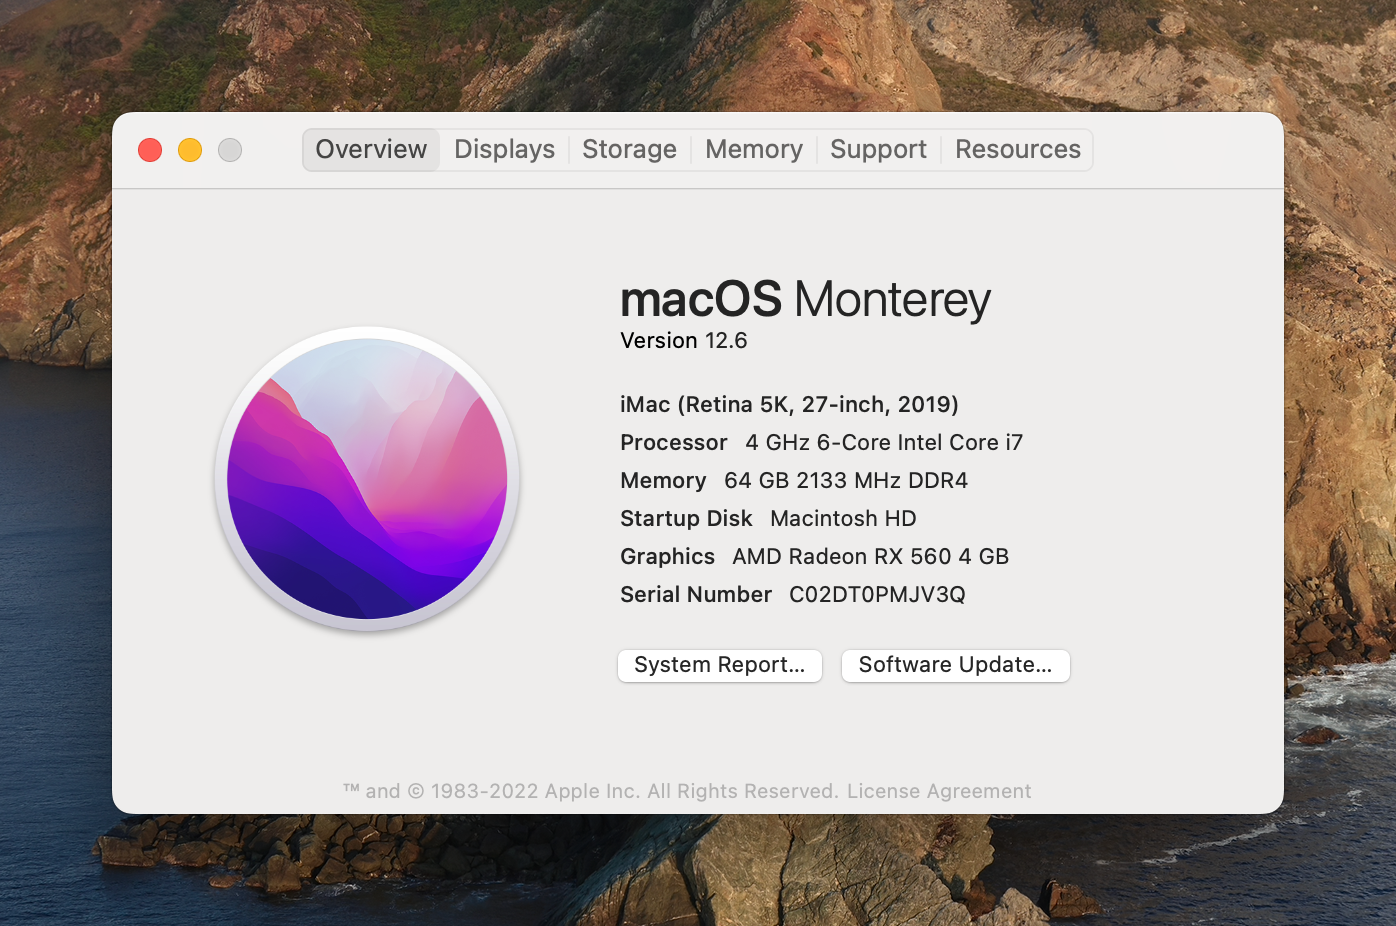
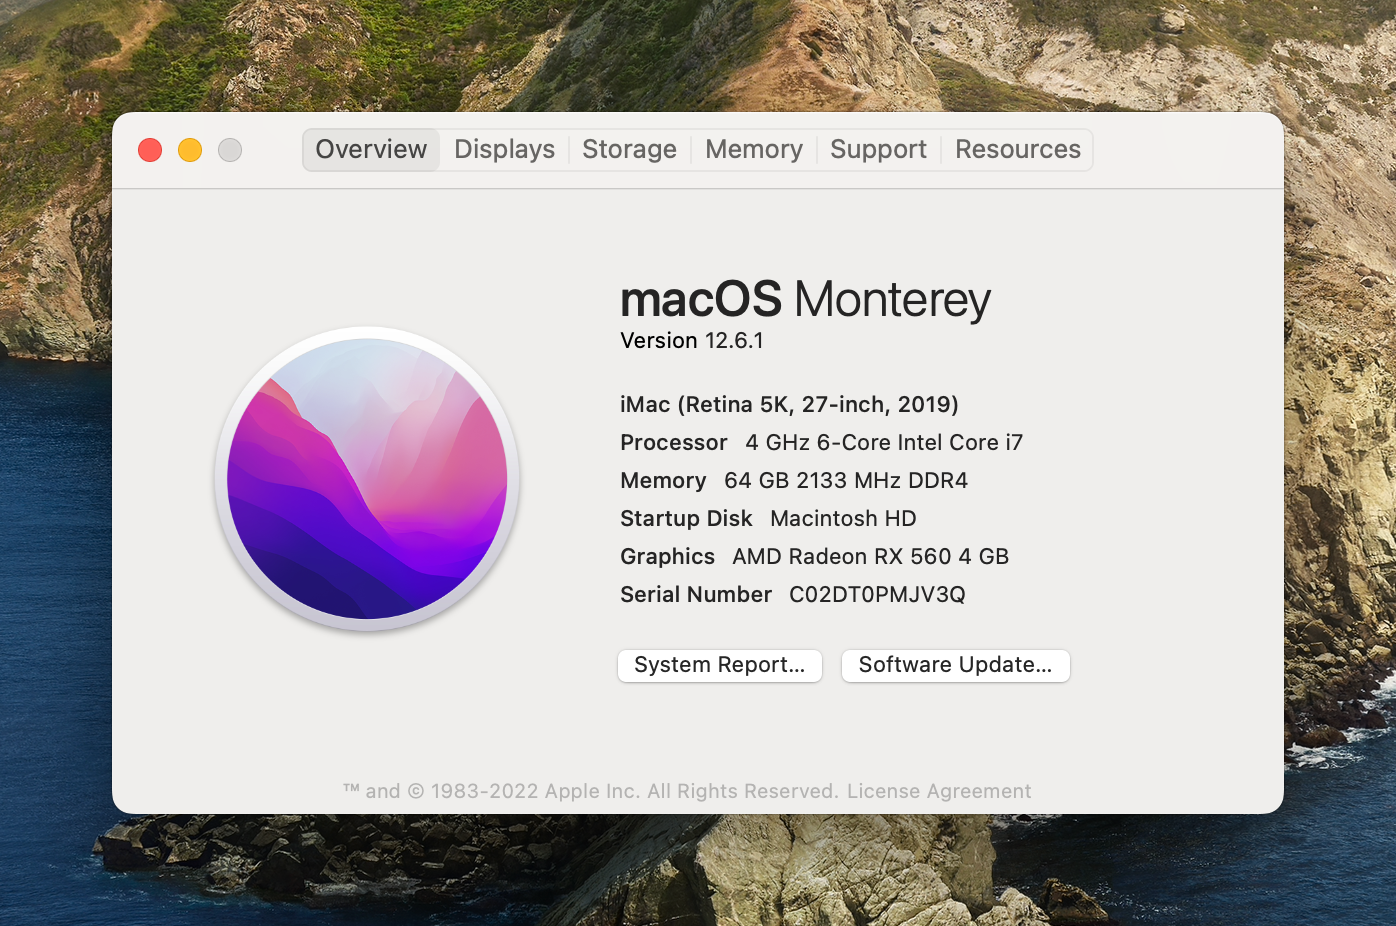
update macOS version to 12.6.1

Changed region(s): [[0.0, 0.0, 1.0, 1.0]]

diff --git a/README.md b/README.md
@@ -1,6 +1,6 @@
 # Hackintosh for Asus ROG Strix Z390-E
 
-[OpenCore 0.8.3](https://github.com/acidanthera/OpenCorePkg) macOS Monterey 12.6
+[OpenCore 0.8.3](https://github.com/acidanthera/OpenCorePkg) macOS Monterey 12.6.1
 
 ![system-infomation](./images/system-infomation.png)
 
